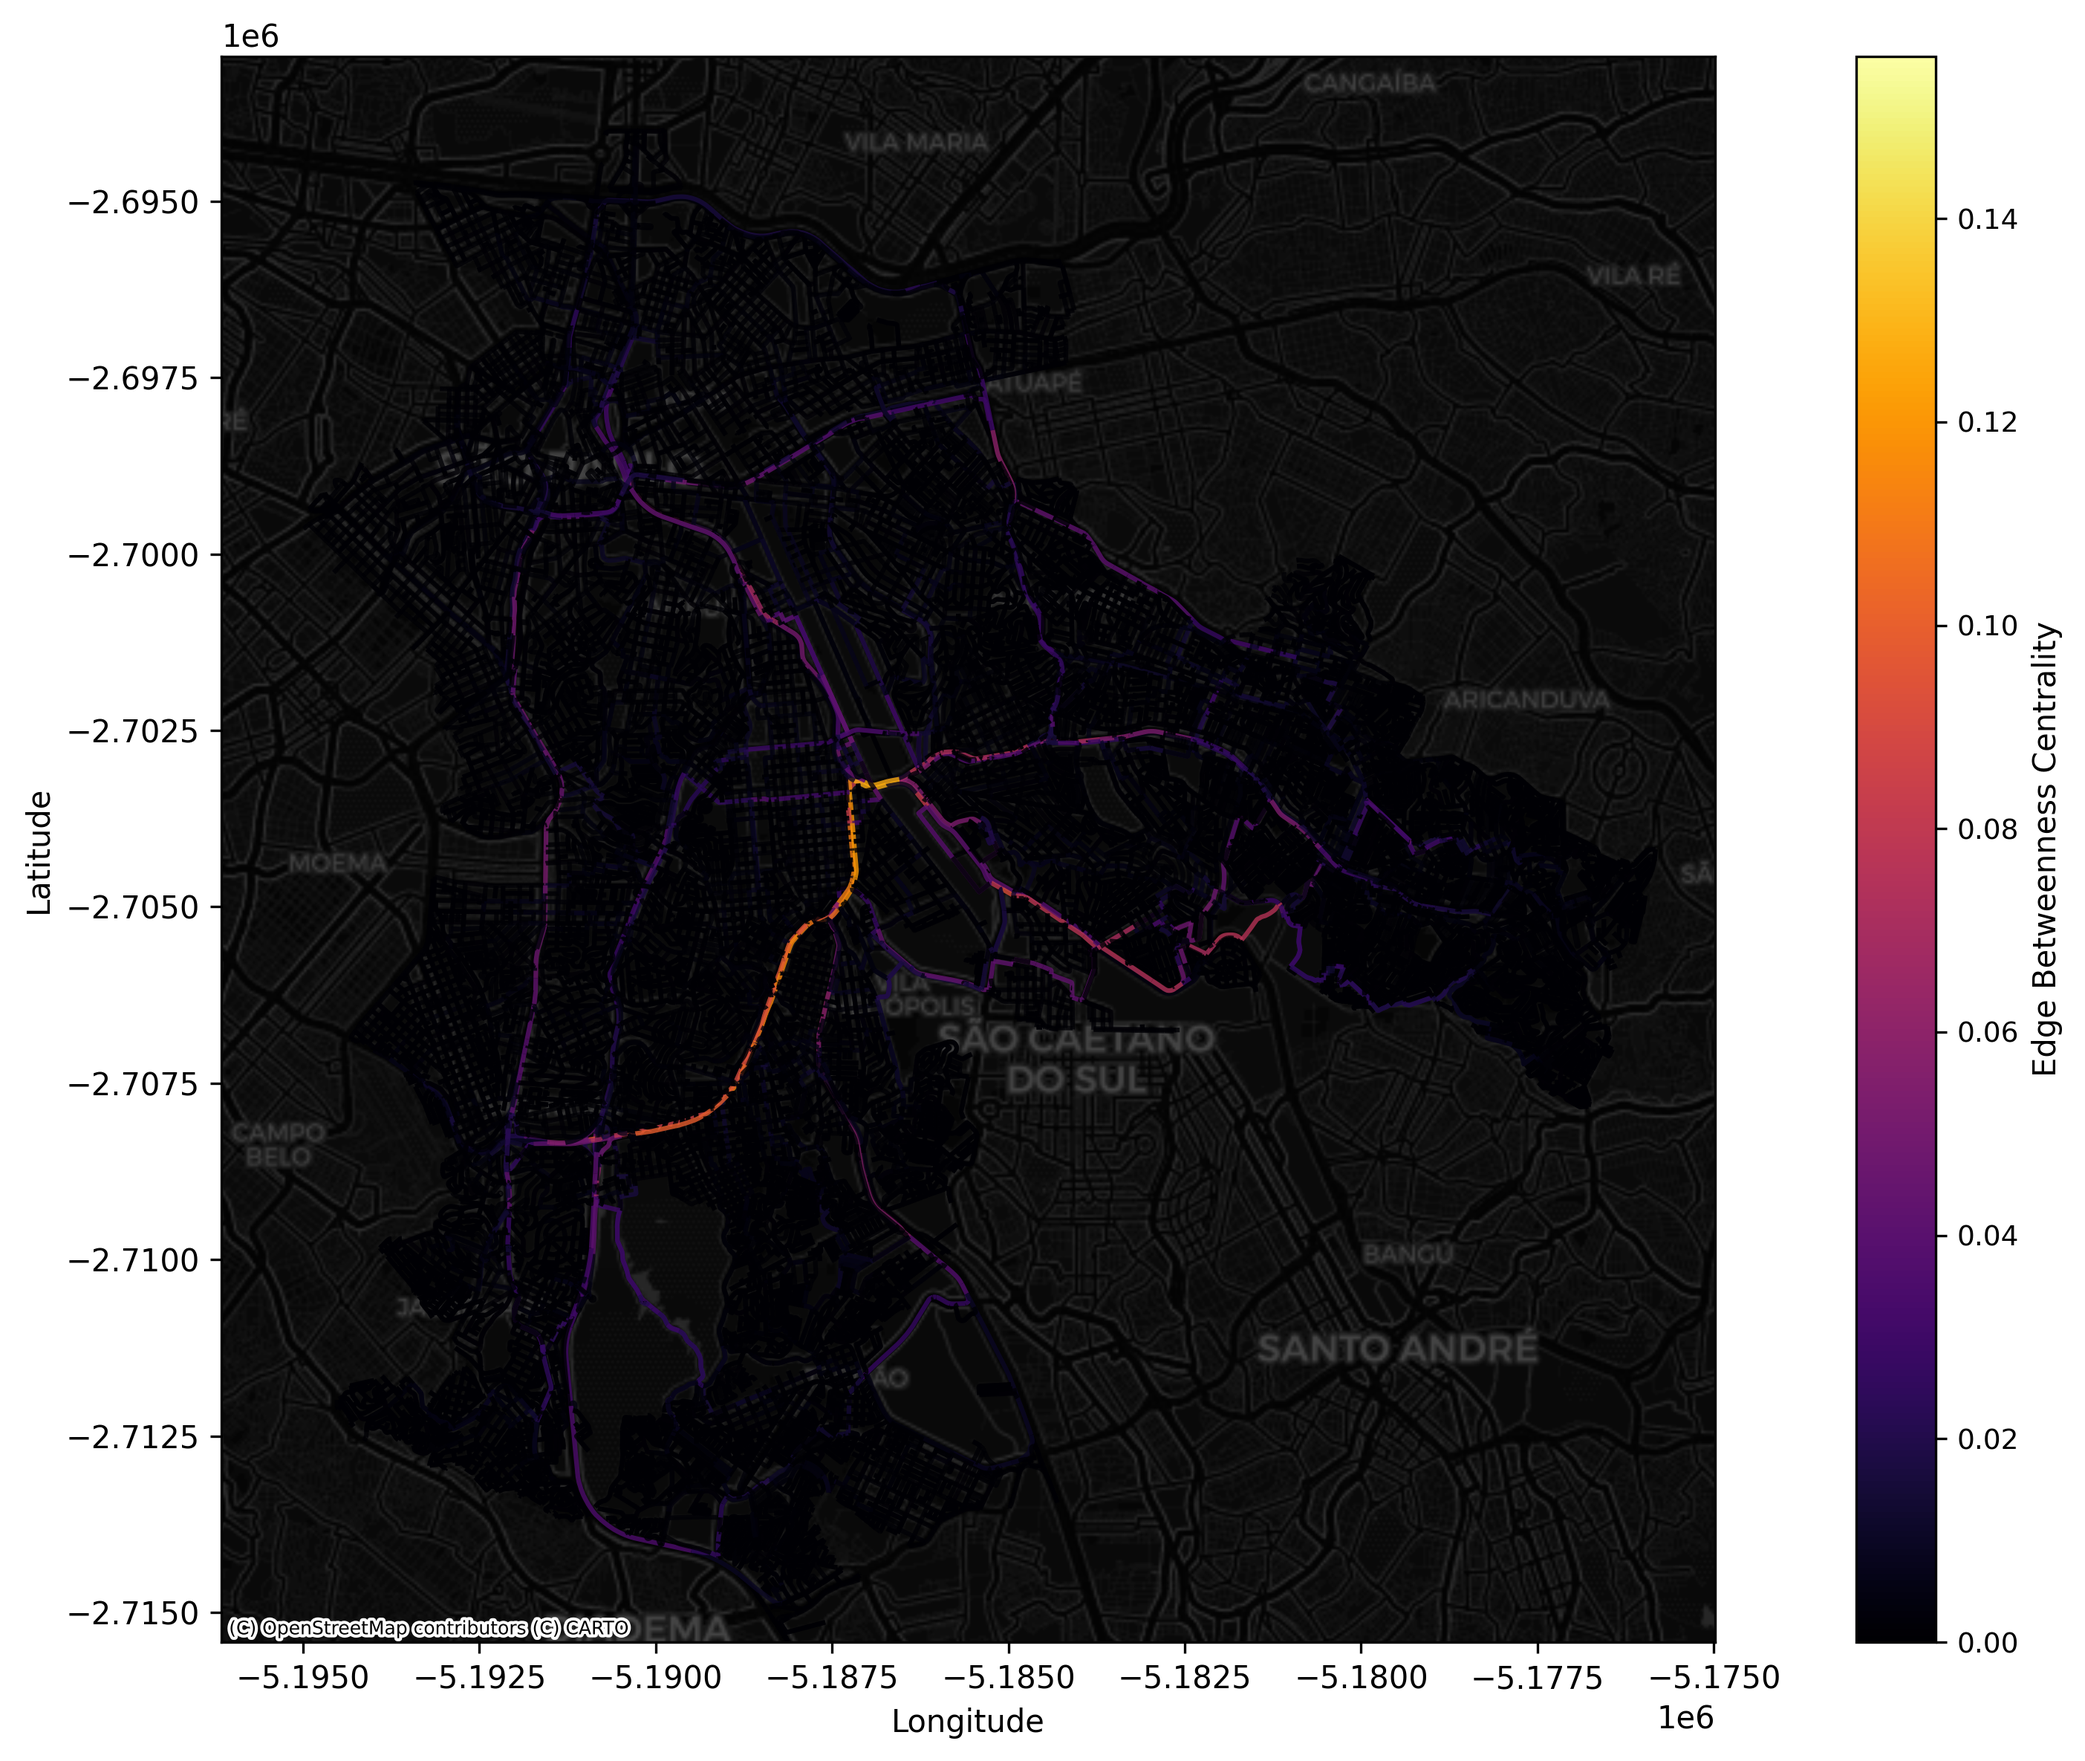
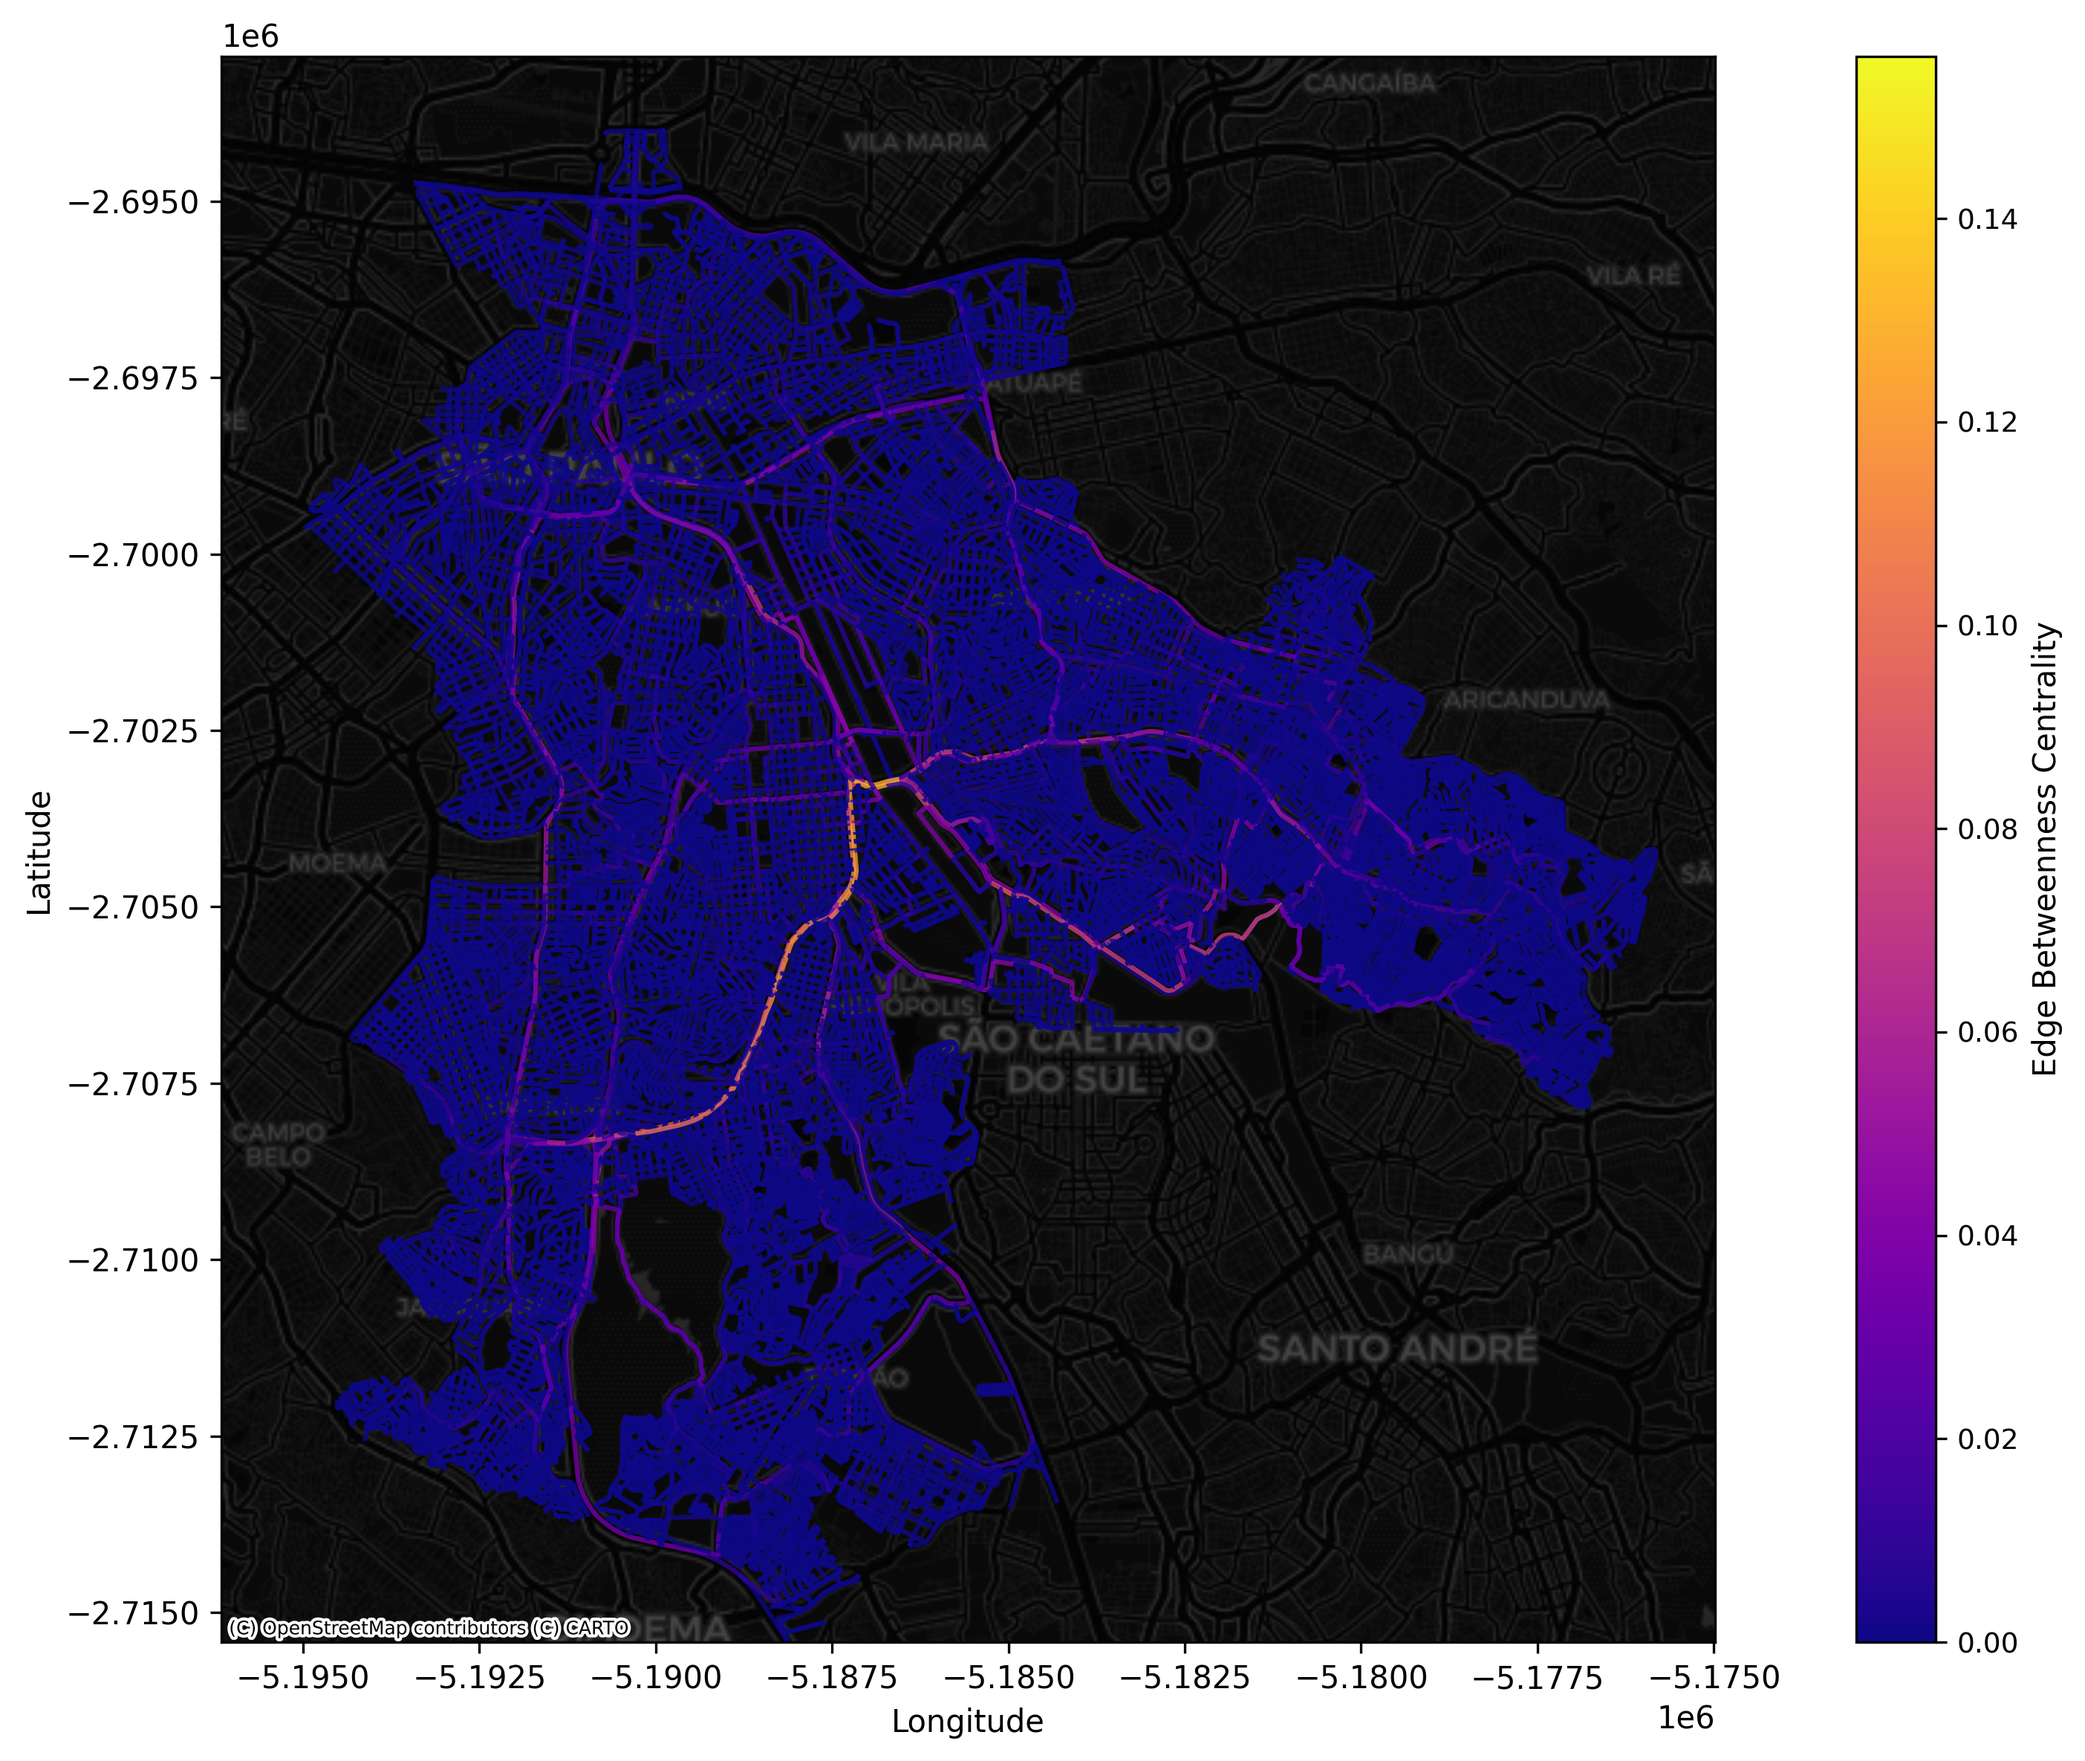
refactor maps methods

Changed region(s): [[0.124, 0.0624, 0.8058, 0.9367], [0.8678, 0.1873, 0.9298, 0.9367], [0.8678, 0.0312, 0.9298, 0.1561]]

diff --git a/src/tama_project/maps.py b/src/tama_project/maps.py
@@ -5,6 +5,78 @@ import matplotlib.cm as cm
 import contextily as ctx
 import osmnx as ox
 import networkx as nx
+from typing import Optional, Tuple
+
+
+def _setup_map_base(
+    tti_sample: gpd.GeoDataFrame,
+    figsize: tuple = (12, 10),
+) -> Tuple[plt.Figure, plt.Axes, gpd.GeoDataFrame]:
+    """
+    Sets up the base map with CRS validation and bounds calculation.
+
+    Returns:
+        Tuple of (fig, ax, tti_unified_mercator)
+    """
+    fig, ax = plt.subplots(figsize=figsize)
+
+    base_crs = tti_sample.crs
+    if base_crs is None:
+        raise ValueError("tti_sample must have a CRS defined")
+
+    tti_unified = tti_sample.dissolve()
+    tti_unified_mercator = tti_unified.to_crs(epsg=3857)
+
+    bounds_mercator = tti_unified_mercator.total_bounds
+    margin_x = (bounds_mercator[2] - bounds_mercator[0]) * 0.1
+    margin_y = (bounds_mercator[3] - bounds_mercator[1]) * 0.1
+
+    ax.set_xlim(bounds_mercator[0] - margin_x, bounds_mercator[2] + margin_x)
+    ax.set_ylim(bounds_mercator[1] - margin_y, bounds_mercator[3] + margin_y)
+
+    return fig, ax, tti_unified_mercator
+
+
+def _ensure_crs_match(
+    gdf: gpd.GeoDataFrame, target_crs: gpd.GeoDataFrame.crs
+) -> gpd.GeoDataFrame:
+    """Ensures GeoDataFrame has the same CRS as target."""
+    if gdf.crs != target_crs:
+        return gdf.to_crs(target_crs)
+    return gdf
+
+
+def _add_basemap_to_ax(
+    ax: plt.Axes,
+    crs: gpd.GeoDataFrame.crs,
+    source,
+    attribution_size: int = 6,
+) -> None:
+    """Adds basemap to axes."""
+    try:
+        ctx.add_basemap(ax, crs=crs, source=source, attribution_size=attribution_size)
+    except Exception:
+        pass
+
+
+def _finish_map(
+    ax: plt.Axes,
+    output_path: str,
+    handles: Optional[list] = None,
+    legend_loc: str = "upper right",
+    dpi: int = 300,
+) -> None:
+    """Finalizes map with labels, legend, and saves."""
+    ax.set_xlabel("Longitude")
+    ax.set_ylabel("Latitude")
+    ax.set_aspect("equal")
+
+    if handles:
+        ax.legend(handles=handles, loc=legend_loc, framealpha=0.9)
+
+    plt.tight_layout()
+    plt.savefig(output_path, dpi=dpi, bbox_inches="tight")
+    # plt.show()
 
 
 def plot_study_area_map(
@@ -26,44 +98,20 @@ def plot_study_area_map(
         pcd_sample: GeoDataFrame with PCD points
         figsize: Figure size tuple (width, height)
     """
-    fig, ax = plt.subplots(figsize=figsize)
+    fig, ax, tti_unified_mercator = _setup_map_base(tti_sample, figsize)
 
     base_crs = tti_sample.crs
+    od_zones_sample = _ensure_crs_match(od_zones_sample, base_crs)
+    pcd_sample = _ensure_crs_match(pcd_sample, base_crs)
 
-    if tti_sample.crs is None:
-        raise ValueError("tti_sample must have a CRS defined")
-
-    if od_zones_sample.crs != base_crs:
-        od_zones_sample = od_zones_sample.to_crs(base_crs)
-
-    if pcd_sample.crs != base_crs:
-        pcd_sample = pcd_sample.to_crs(base_crs)
-
-    tti_unified = tti_sample.dissolve()
     od_zones_sample_valid = od_zones_sample.copy()
     od_zones_sample_valid["geometry"] = od_zones_sample_valid["geometry"].make_valid()
     od_zones_unified = od_zones_sample_valid.dissolve()
 
-    tti_unified_mercator = tti_unified.to_crs(epsg=3857)
     od_zones_unified_mercator = od_zones_unified.to_crs(epsg=3857)
     pcd_sample_mercator = pcd_sample.to_crs(epsg=3857)
 
-    bounds_mercator = tti_unified_mercator.total_bounds
-    margin_x = (bounds_mercator[2] - bounds_mercator[0]) * 0.1
-    margin_y = (bounds_mercator[3] - bounds_mercator[1]) * 0.1
-
-    ax.set_xlim(bounds_mercator[0] - margin_x, bounds_mercator[2] + margin_x)
-    ax.set_ylim(bounds_mercator[1] - margin_y, bounds_mercator[3] + margin_y)
-
-    try:
-        ctx.add_basemap(
-            ax,
-            crs=tti_unified_mercator.crs,
-            source=ctx.providers.CartoDB.Positron,
-            attribution_size=6,
-        )
-    except Exception:
-        pass
+    _add_basemap_to_ax(ax, tti_unified_mercator.crs, ctx.providers.CartoDB.Positron)
 
     od_zones_unified_mercator.plot(
         ax=ax,
@@ -112,18 +160,11 @@ def plot_study_area_map(
         label="Stations",
     )
 
-    ax.set_xlabel("Longitude")
-    ax.set_ylabel("Latitude")
-    ax.set_aspect("equal")
-    ax.legend(
+    _finish_map(
+        ax,
+        "plot/study_area_map.png",
         handles=[od_zones_patch, tti_patch, pcd_patch],
-        loc="upper right",
-        framealpha=0.9,
     )
-
-    plt.tight_layout()
-    plt.savefig("plot/study_area_map.png", dpi=300, bbox_inches="tight")
-    # plt.show()
 
 
 def plot_network_flood_map(
@@ -141,36 +182,14 @@ def plot_network_flood_map(
         tti_sample: GeoDataFrame with TTI basin polygons (for bounds)
         figsize: Figure size tuple (width, height)
     """
-    fig, ax = plt.subplots(figsize=figsize)
+    fig, ax, tti_unified_mercator = _setup_map_base(tti_sample, figsize)
 
     base_crs = tti_sample.crs
+    sample_flood_points = _ensure_crs_match(sample_flood_points, base_crs)
 
-    if tti_sample.crs is None:
-        raise ValueError("tti_sample must have a CRS defined")
-
-    if sample_flood_points.crs != base_crs:
-        sample_flood_points = sample_flood_points.to_crs(base_crs)
-
-    tti_unified = tti_sample.dissolve()
-    tti_unified_mercator = tti_unified.to_crs(epsg=3857)
     flood_points_mercator = sample_flood_points.to_crs(epsg=3857)
 
-    bounds_mercator = tti_unified_mercator.total_bounds
-    margin_x = (bounds_mercator[2] - bounds_mercator[0]) * 0.1
-    margin_y = (bounds_mercator[3] - bounds_mercator[1]) * 0.1
-
-    ax.set_xlim(bounds_mercator[0] - margin_x, bounds_mercator[2] + margin_x)
-    ax.set_ylim(bounds_mercator[1] - margin_y, bounds_mercator[3] + margin_y)
-
-    try:
-        ctx.add_basemap(
-            ax,
-            crs=tti_unified_mercator.crs,
-            source=ctx.providers.CartoDB.Positron,
-            attribution_size=6,
-        )
-    except Exception:
-        pass
+    _add_basemap_to_ax(ax, tti_unified_mercator.crs, ctx.providers.CartoDB.Positron)
 
     G_edges = ox.graph_to_gdfs(G, nodes=False, edges=True)
     G_edges_mercator = G_edges.to_crs(epsg=3857)
@@ -202,14 +221,7 @@ def plot_network_flood_map(
     )
     handles = [network_patch, flood_patch]
 
-    ax.set_xlabel("Longitude")
-    ax.set_ylabel("Latitude")
-    ax.set_aspect("equal")
-    ax.legend(handles=handles, loc="upper right", framealpha=0.9)
-
-    plt.tight_layout()
-    plt.savefig("plot/network_flood_map.png", dpi=300, bbox_inches="tight")
-    # plt.show()
+    _finish_map(ax, "plot/network_flood_map.png", handles=handles)
 
 
 def plot_network_ebc_map(
@@ -226,36 +238,13 @@ def plot_network_ebc_map(
         tti_sample: GeoDataFrame with TTI basin polygons (for bounds)
         figsize: Figure size tuple (width, height)
     """
-    fig, ax = plt.subplots(figsize=figsize)
+    fig, ax, tti_unified_mercator = _setup_map_base(tti_sample, figsize)
 
     base_crs = tti_sample.crs
-
-    if tti_sample.crs is None:
-        raise ValueError("tti_sample must have a CRS defined")
-
-    if G_gdf.crs != base_crs:
-        G_gdf = G_gdf.to_crs(base_crs)
-
-    tti_unified = tti_sample.dissolve()
-    tti_unified_mercator = tti_unified.to_crs(epsg=3857)
+    G_gdf = _ensure_crs_match(G_gdf, base_crs)
     G_gdf_mercator = G_gdf.to_crs(epsg=3857)
 
-    bounds_mercator = tti_unified_mercator.total_bounds
-    margin_x = (bounds_mercator[2] - bounds_mercator[0]) * 0.1
-    margin_y = (bounds_mercator[3] - bounds_mercator[1]) * 0.1
-
-    ax.set_xlim(bounds_mercator[0] - margin_x, bounds_mercator[2] + margin_x)
-    ax.set_ylim(bounds_mercator[1] - margin_y, bounds_mercator[3] + margin_y)
-
-    try:
-        ctx.add_basemap(
-            ax,
-            crs=tti_unified_mercator.crs,
-            source=ctx.providers.CartoDB.DarkMatter,
-            attribution_size=6,
-        )
-    except Exception:
-        pass
+    _add_basemap_to_ax(ax, tti_unified_mercator.crs, ctx.providers.CartoDB.DarkMatter)
 
     if "ebc" not in G_gdf_mercator.columns:
         raise ValueError("G_gdf must contain an 'ebc' column")
@@ -282,10 +271,4 @@ def plot_network_ebc_map(
     cbar = plt.colorbar(sm, ax=ax, label="Edge Betweenness Centrality")
     cbar.ax.tick_params(labelsize=9)
 
-    ax.set_xlabel("Longitude")
-    ax.set_ylabel("Latitude")
-    ax.set_aspect("equal")
-
-    plt.tight_layout()
-    plt.savefig("plot/network_ebc_map.png", dpi=300, bbox_inches="tight")
-    # plt.show()
+    _finish_map(ax, "plot/network_ebc_map.png")
